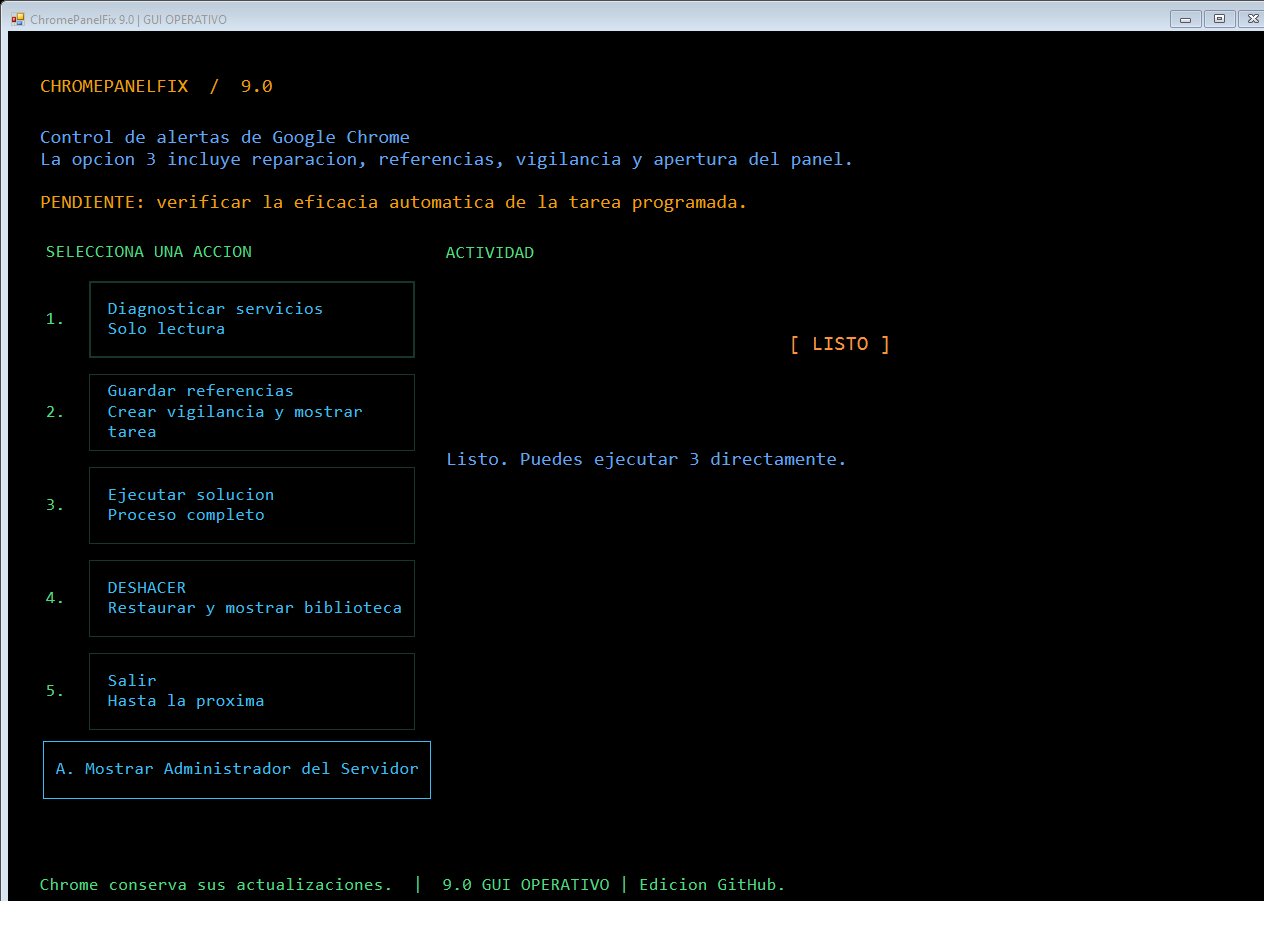
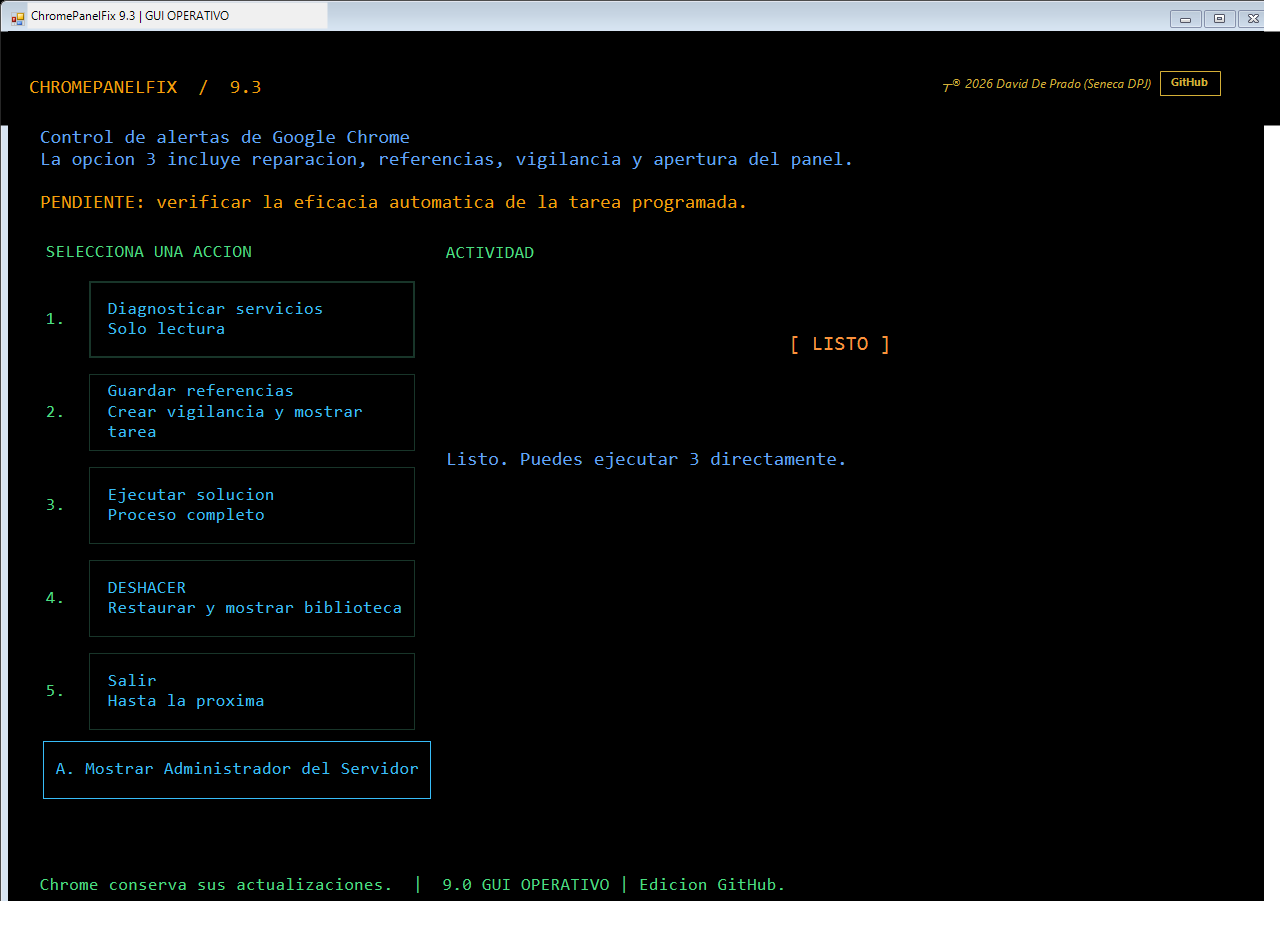
docs: refresh 9.3 preview and release information

Changed region(s): [[0.0, 0.0, 0.2812, 0.1234], [0.75, 0.0617, 0.9375, 0.0926], [0.9688, 0.0309, 1.0, 0.1543]]

diff --git a/README.md b/README.md
@@ -1,4 +1,4 @@
-# ChromePanelFix 9.3 — GUI OPERATIVO · Previa local
+# ChromePanelFix 9.3 — GUI OPERATIVO
 
 [Español](README.md) · [English](README.en.md)
 
@@ -6,17 +6,17 @@
 
 Utilidad gráfica en PowerShell para administradores de Windows Server. Ajusta los filtros de servicios de los paneles «Servidor local» y «Todos los servidores» en el perfil del administrador actual.
 
-> **Previa local 9.3:** esta edición aún no está publicada. El enlace siguiente lleva a la versión estable 9.2.
+> **ChromePanelFix 9.3 — GUI OPERATIVO.** Esta versión incorpora la firma del autor y un acceso confirmado al perfil de GitHub.
 
 ## Descargar
 
-[Descargar ChromePanelFix 9.2](https://github.com/SenecaDPJ/ChromePanelFix/releases/tag/v9.2) · [Repositorio](https://github.com/SenecaDPJ/ChromePanelFix)
+[Descargar ChromePanelFix 9.3](https://github.com/SenecaDPJ/ChromePanelFix/releases/tag/v9.3) · [Repositorio](https://github.com/SenecaDPJ/ChromePanelFix)
 
-Captura base de la interfaz 9.0; esta previa 9.3 añade la firma del autor y el acceso a GitHub en la cabecera.
+![Vista previa de la interfaz ChromePanelFix 9.3](Vista-previa.png)
 
 ## Inicio rápido
 
-1. Para probar esta previa, mantenga juntos todos los archivos de la carpeta 9.3. La Release 9.2 enlazada arriba es la versión estable publicada.
+1. Descargue el ZIP de la Release 9.3 y extraiga todos sus archivos juntos.
 2. Abra Abrir-ChromePanelFix.cmd.
 3. Si Windows marca scripts como procedentes de Internet, el lanzador pregunta si confía en ellos. Responda S para retirar Zone.Identifier solo de los archivos .ps1 marcados en esta carpeta y continuar; responda N para salir sin modificarlos.
 4. Elija 3 para el flujo completo; no necesita ejecutar antes 1 ni 2.

diff --git a/README.en.md b/README.en.md
@@ -1,4 +1,4 @@
-# ChromePanelFix 9.3 — GUI OPERATIVO · Local preview
+# ChromePanelFix 9.3 — GUI OPERATIVO
 
 [Español](README.md) · [English](README.en.md)
 
@@ -6,17 +6,17 @@
 
 A PowerShell graphical utility for Windows Server administrators. It adjusts service filters in the Local Server and All Servers dashboards for the current administrator profile.
 
-> **Local 9.3 preview:** this build has not been released. The link below points to the stable 9.2 version.
+> **ChromePanelFix 9.3 — GUI OPERATIVO.** This version adds the author signature and a confirmed link to the GitHub profile.
 
 ## Download
 
-[Download ChromePanelFix 9.2](https://github.com/SenecaDPJ/ChromePanelFix/releases/tag/v9.2) · [Repository](https://github.com/SenecaDPJ/ChromePanelFix)
+[Download ChromePanelFix 9.3](https://github.com/SenecaDPJ/ChromePanelFix/releases/tag/v9.3) · [Repository](https://github.com/SenecaDPJ/ChromePanelFix)
 
-Base screenshot from interface 9.0; this 9.3 preview adds the author signature and GitHub link to the header.
+![ChromePanelFix 9.3 interface preview](Vista-previa.png)
 
 ## Quick start
 
-1. To try this preview, keep all files from the 9.3 folder together. The 9.2 release linked above is the published stable version.
+1. Download the 9.3 release ZIP and extract all files together.
 2. Open Abrir-ChromePanelFix.cmd.
 3. If Windows marks scripts as downloaded from the Internet, the launcher asks whether you trust them. Press S to remove Zone.Identifier only from the marked .ps1 files in this folder and continue, or N to exit without changing them.
 4. Choose 3 for the complete workflow; options 1 and 2 are not prerequisites.

diff --git a/VALIDACION.md b/VALIDACION.md
@@ -1,8 +1,12 @@
-# Validación y estado de 9.3 (previa local)
+# Validación y estado de 9.3
 
 ## 9.3
 
-El cambio de interfaz y la firma están implementados en esta copia local. No se ha ejecutado en el servidor ni se ha probado el botón de GitHub. La generación de una captura real quedó bloqueada por la política de ejecución de Windows PowerShell en este entorno; no se modificó ni se eludió esa política. La eficacia de la tarea automática y la compatibilidad con Windows Server 2016 siguen pendientes.
+La persona mantenedora confirmó que la distribución de cabecera evita que el título quede tapado. La imagen Vista-previa.png es una representación de la interfaz 9.3 basada en la captura previa y con la cabecera actualizada para reflejar el título, la firma y el botón GitHub; no sustituye a una captura de ejecución de esta versión. El botón solicita confirmación antes de abrir el perfil.
+
+El lanzador conserva la comprobación condicional de Zone.Identifier: si los .ps1 extraídos tienen esa marca, pregunta si se confía en ellos y, con respuesta S, la retira solo de esos archivos; con N, sale sin modificarlos. Si no detecta la marca, no pregunta. No cambia ni elude la política de ejecución de PowerShell.
+
+La eficacia de las ejecuciones automáticas de la tarea sigue pendiente de verificación. La compatibilidad con Windows Server 2016 no se ha comprobado.
 
 ## Base 9.2: validación anterior
 

diff --git a/RELEASE_NOTES.md b/RELEASE_NOTES.md
@@ -1,6 +1,8 @@
-# ChromePanelFix 9.3 — previa local de interfaz
+# ChromePanelFix 9.3 — GUI OPERATIVO
 
-Se añade la firma © 2026 David De Prado (Seneca DPJ) y un botón GitHub con confirmación antes de abrir el perfil del autor. El título usa un panel izquierdo propio de 520 px; la firma y el botón van en un panel separado a la derecha. El botón mide 60 × 24 y queda separado del borde. El resto del comportamiento se basa en la 9.2. Esta previa aún no se ha publicado ni validado en el servidor. La eficacia de las ejecuciones automáticas y la compatibilidad con Windows Server 2016 siguen pendientes.
+Se añade la firma © 2026 David De Prado (Seneca DPJ) y un botón GitHub con confirmación antes de abrir el perfil del autor. El título ocupa un panel izquierdo propio; la firma y el botón quedan en un panel separado a la derecha, dentro del lienzo y sin tapar el nombre de la aplicación. El resto del comportamiento se basa en la 9.2.
+
+La tarea automática se programa para las 09:00 y al iniciar sesión. Su eficacia en ejecuciones automáticas sigue pendiente de verificación; la compatibilidad con Windows Server 2016 también está pendiente.
 
 # ChromePanelFix 9.2 — GUI OPERATIVO
 

diff --git a/PUBLICACION.md b/PUBLICACION.md
@@ -1,12 +1,12 @@
-# Publicación de ChromePanelFix 9.2
+# Publicación de ChromePanelFix 9.3
 
 - Repositorio: https://github.com/SenecaDPJ/ChromePanelFix
 - Descripción: Limpia "Administrador del Servidor" de molestos errores sobre Chrome.
-- Versión: 9.2 GUI OPERATIVO.
+- Versión: 9.3 GUI OPERATIVO.
 - Mantenedor: SenecaDPJ.
 - Licencia: MIT.
 - Sistema: Windows Server; Windows PowerShell 5.1.
 
 El ZIP contiene la interfaz, el motor, las instrucciones y los lanzadores. Extraiga todos los archivos juntos y abra Abrir-ChromePanelFix.cmd. Si Windows marcó los scripts descargados, confirme S en el lanzador para retirar Zone.Identifier de los .ps1 afectados. No se modifica ni omite la política de ejecución.
 
-La eficacia de la tarea automática y la compatibilidad con Windows Server 2016 siguen pendientes. La Release 9.1 se conserva en el historial.
+La eficacia de la tarea automática y la compatibilidad con Windows Server 2016 siguen pendientes. La Release 9.2 se conserva en el historial.

diff --git a/VERSIONES.md b/VERSIONES.md
@@ -1,6 +1,6 @@
-# Política de versiones
+# Política de versiones
 
-- 9.3 es una previa local basada en 9.2; no está publicada.
+- 9.3 es una edición basada en 9.2 que añade firma, enlace confirmado a GitHub y la cabecera ajustada para que el nombre de la aplicación quede visible.
 
 - 9.2 integra el consentimiento interactivo para retirar Zone.Identifier, limpieza de referencias MMC y recuperación de procesos.
 - 9.1 corrige el BOM del lanzador CMD y los errores de inicio.

diff --git a/CHANGELOG.md b/CHANGELOG.md
@@ -1,6 +1,6 @@
-# Historial
+# Historial
 
-## 9.3 (previa local)
+## 9.3
 - Añade la firma Copyright © 2026 David De Prado (Seneca DPJ) en la cabecera y LICENSE.
 - Añade un botón GitHub amarillo sobre negro con confirmación previa antes de abrir el perfil del autor.
 - Aísla el título en un panel izquierdo de ancho propio para evitar recortes; el bloque de firma y GitHub se acopla a la derecha.
